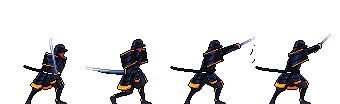
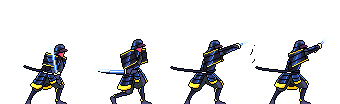
Imagens mais claras

diff --git a/codigo/classes.py b/codigo/classes.py
@@ -60,7 +60,7 @@ class Player(pygame.sprite.Sprite, Jogo):
         for i in range(8):
             img = PLAYER_CORRENDO.subsurface((85 * i, 0), (85,104))
             self.sprite_correndo.append(img)
-        for i in range(5):
+        for i in range(8):
             img = PLAYER_ATAQUE_FORTE.subsurface((85 * i, 0), (85,104))
             self.sprite_ataque_forte.append(img)
         for i in range(4):
@@ -102,7 +102,7 @@ class Player(pygame.sprite.Sprite, Jogo):
 
         # Movimentação:
         self.rect.x = 512
-        self.rect.y = 510
+        self.rect.y = 535
         self.velocidade_x = 0
         self.velocidade_y = 0
         self.gravidade = 0
@@ -115,12 +115,12 @@ class Player(pygame.sprite.Sprite, Jogo):
         # Para a direita:
         if self.direita:
             if self.parado:
-                self.index_parado += 0.1
+                self.index_parado += 0.05
                 if self.index_parado > 6:
                     self.index_parado = 0
                 self.image = self.sprite_parado[int(self.index_parado)]
             if self.andando:
-                self.index_andando += 0.1
+                self.index_andando += 0.06
                 if self.index_andando > 9:
                     self.index_andando = 0
                 self.image = self.sprite_andando[int(self.index_andando)]
@@ -130,14 +130,14 @@ class Player(pygame.sprite.Sprite, Jogo):
                     self.index_correndo = 0
                 self.image = self.sprite_correndo[int(self.index_correndo)]
             if self.ataque_forte:
-                self.index_ataque_forte += 0.05
-                if self.index_ataque_forte > 5:
+                self.index_ataque_forte += 0.09
+                if self.index_ataque_forte > 8:
                     self.index_ataque_forte = 0
                     self.ataque_forte = False
                     self.parado = True
                 self.image = self.sprite_ataque_forte[int(self.index_ataque_forte)]
             if self.ataque_fraco:
-                self.index_ataque_fraco += 0.05
+                self.index_ataque_fraco += 0.07
                 if self.index_ataque_fraco > 4:
                     self.index_ataque_fraco = 0
                     self.ataque_fraco = False
@@ -147,13 +147,13 @@ class Player(pygame.sprite.Sprite, Jogo):
         # Para a esquerda:
         elif self.esquerda:
             if self.parado:
-                self.index_parado += 0.1
+                self.index_parado += 0.05
                 if self.index_parado > 6:
                     self.index_parado = 0
                 imagem = self.sprite_parado[int(self.index_parado)]
                 self.image = pygame.transform.flip(imagem, True, False)
             if self.andando:
-                self.index_andando += 0.1
+                self.index_andando += 0.06
                 if self.index_andando > 9:
                     self.index_andando = 0
                 imagem = self.sprite_andando[int(self.index_andando)]
@@ -165,7 +165,7 @@ class Player(pygame.sprite.Sprite, Jogo):
                 imagem = self.sprite_correndo[int(self.index_correndo)]
                 self.image = pygame.transform.flip(imagem, True, False)
             if self.ataque_forte:
-                self.index_ataque_forte += 0.05
+                self.index_ataque_forte += 0.09
                 if self.index_ataque_forte > 5:
                     self.index_ataque_forte = 0
                     self.ataque_forte = False
@@ -173,7 +173,7 @@ class Player(pygame.sprite.Sprite, Jogo):
                 imagem = self.sprite_ataque_forte[int(self.index_ataque_forte)]
                 self.image = pygame.transform.flip(imagem, True, False)
             if self.ataque_fraco:
-                self.index_ataque_fraco += 0.05
+                self.index_ataque_fraco += 0.08
                 if self.index_ataque_fraco > 4:
                     self.index_ataque_fraco = 0
                     self.ataque_fraco = False
@@ -189,18 +189,18 @@ class Player(pygame.sprite.Sprite, Jogo):
         # Verifica borda:
         if prox_posicao_x < 0:
             prox_posicao_x = 0
-            if self.rect.y < 510:
+            if self.rect.y < 535:
                 self.rect.y = self.rect.y
             else:
-                self.rect.y = 510
+                self.rect.y = 535
         elif prox_posicao_x > 896:
             prox_posicao_x = 896
-            if self.rect.y < 510:
+            if self.rect.y < 535:
                 self.rect.y = self.rect.y
             else:
-                self.rect.y = 510
-        elif self.rect.y > 510:
-            self.rect.y = 510
+                self.rect.y = 535
+        elif self.rect.y > 535:
+            self.rect.y = 535
             self.pulos = 0
             self.pulando = False
         
@@ -212,10 +212,11 @@ class TelaInicial(Jogo):
     def desenha(self):
         self.window.blit(pygame.transform.scale(FUNDO, (self.WIDTH, self.HEIGHT)), (0, 0))
         self.window.blit(pygame.transform.scale(NUVEM_1, (self.WIDTH + 100, self.HEIGHT)), (-50 + self.nuvem1_vel, 0))  
-        self.window.blit(pygame.transform.scale(NUVEM_4, (self.WIDTH + 100, self.HEIGHT)), (-50 + self.nuvem4_vel, 0))  
+        self.window.blit(pygame.transform.scale(NUVEM_4, (self.WIDTH + 100, self.HEIGHT)), (-50 + self.nuvem4_vel, 0))
         self.window.blit(pygame.transform.scale_by(LUA, 2.5), (-80, 0))
-        self.window.blit(FONTE_TITULO.render('SHADOW OF THE NINJA', True, BRANCO), (40, self.HEIGHT/2 + 20))
 
+        self.window.blit(FONTE_TITULO.render('SHADOW OF THE NINJA', True, BRANCO), (40, self.HEIGHT/2 + 20))
+        
         if self.botao == 1:
             self.window.blit(FONTE_TEXTO_POPUP.render('Novo jogo', True, BRANCO), (40, self.HEIGHT/2 + 77))
         else:
@@ -298,12 +299,13 @@ class TelaJogo(Jogo):
             img = pygame.image.load(f'../assets/backgrounds/TelaJogo/Backgorund_Floresta/{i}.png').convert_alpha()
             img = pygame.transform.scale(img, (self.WIDTH, self.HEIGHT))
             self.background.append(img)
-
+        
     def desenha(self):
         self.window.fill((255, 255, 255))
         for x in range(12):
             for i in self.background:
                 self.window.blit(i, (x * self.WIDTH - self.scroll, 0))
+        self.window.blit(TESTE, (0, 390))
         self.sprites.draw(self.window)
         self.sprites.update()
 
@@ -316,7 +318,7 @@ class TelaJogo(Jogo):
             if self.scroll == 0:
                 self.player.rect.x -= 1
             elif self.player.rect.x <= 511 or self.scroll != 1000 and self.scroll != 0:
-                self.scroll -= 2
+                self.scroll -= 1
             elif self.scroll == 1000:
                 self.player.rect.x -= 1
             self.player.andando = True
@@ -326,7 +328,7 @@ class TelaJogo(Jogo):
             if self.scroll == 1000:
                 self.player.rect.x += 1
             elif self.player.rect.x >= 511 or self.scroll != 1000 and self.scroll != 0:
-                self.scroll += 2
+                self.scroll += 1
             elif self.scroll == 0:
                 self.player.rect.x += 1
             self.player.andando = True

diff --git a/codigo/constantes.py b/codigo/constantes.py
@@ -20,6 +20,7 @@ NUVEM_1_VEL = 0.5
 NUVEM_4 = pygame.image.load('../assets/backgrounds/StartScreen/4.png')
 NUVEM_4_VEL = - 0.5
 
+TESTE = pygame.image.load('../assets/backgrounds/TelaJogo/Backgorund_Floresta/título.png')
 #TelaJogo
 
 
